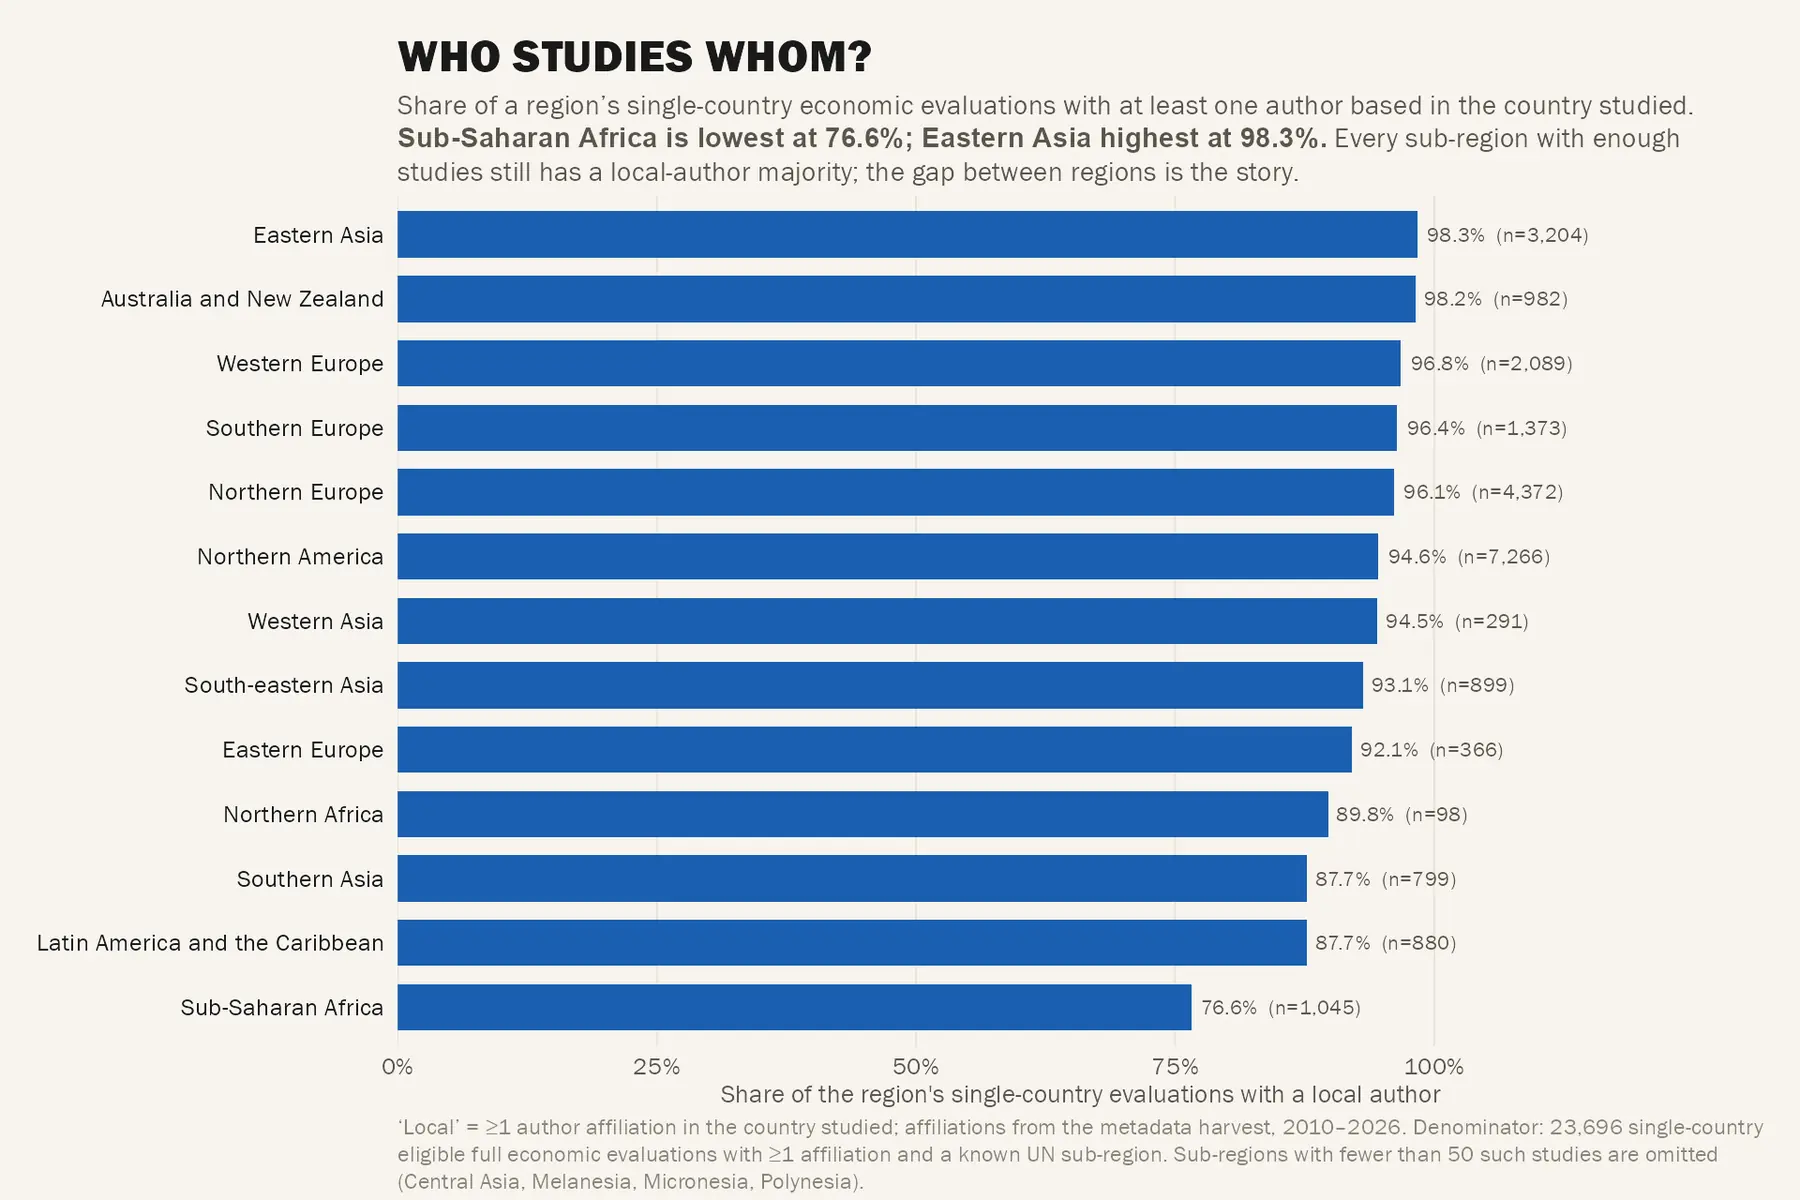
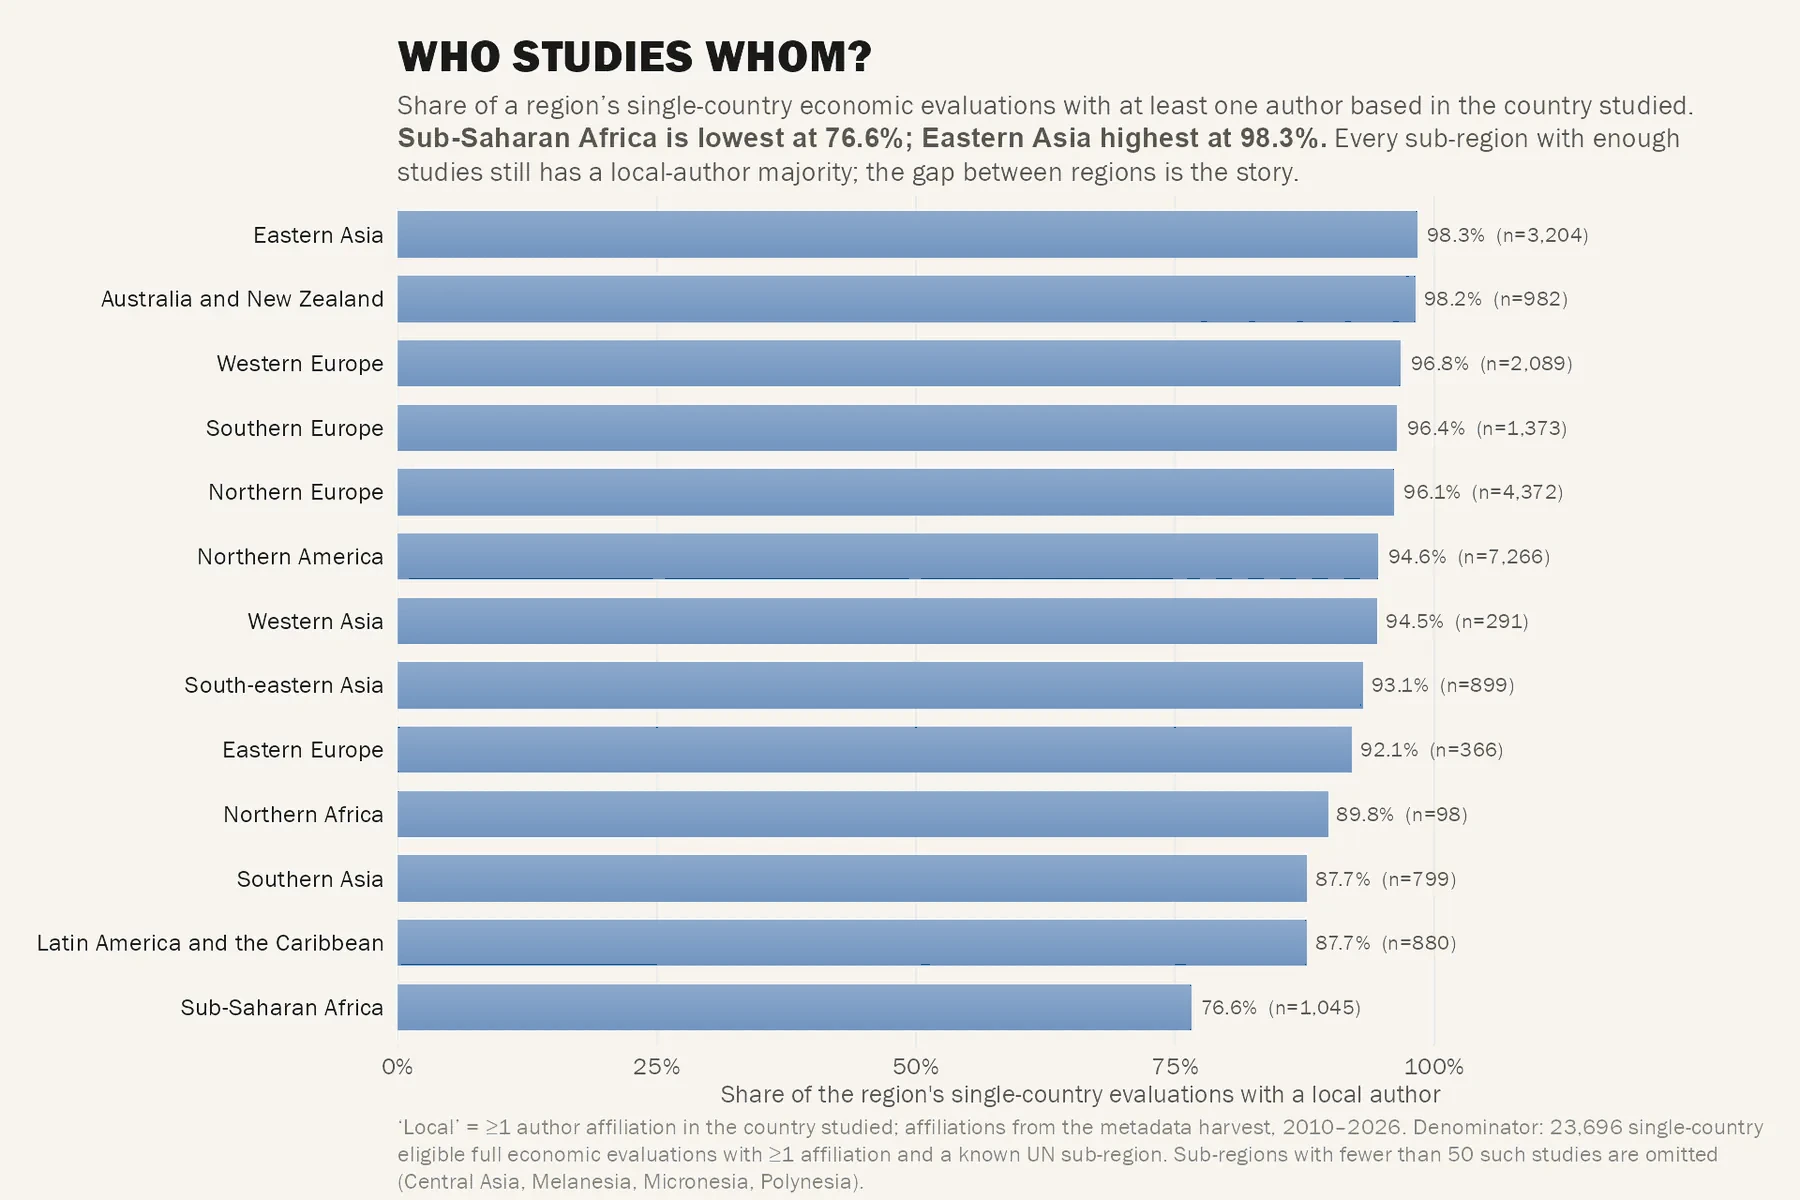
Recolour Authorship & access figures to the soft income palette
Swap the saturated upstream colours in six pre-rendered figures for the
site's soft income palette, with a subtle top-lit gradient on the two bar
charts. The open-access map is left unchanged: it already uses a soft
diverging scale. The source and affiliation data for these figures are not
in this repo, so scripts/recolour_authorship_figures.py recolours the
images pixel by pixel and can be re-run on fresh originals.

Changed region(s): [[0.2178, 0.1542, 0.8089, 0.8633]]

diff --git a/scripts/recolour_authorship_figures.py b/scripts/recolour_authorship_figures.py
@@ -1,0 +1,106 @@
+"""Recolour the pre-rendered Authorship & access figures to the site's soft palette.
+
+Run: python scripts/recolour_authorship_figures.py [figure.webp ...]
+Run it on the original upstream images; a second pass on recoloured output is not intended.
+Requires Pillow, numpy and scipy. These figures were rendered upstream; their
+source code and affiliation data are not in this repo, so this swaps colours
+pixel by pixel instead of re-plotting. Each pixel is matched to the line between
+two known colours (background, white, or a source colour), which keeps
+anti-aliased edges and overlaps consistent. Solid bars also get the subtle
+top-lit gradient used by figure_style.shade_bars. Originals stay in git history.
+fig_map_openaccess.webp is left as is: it already uses a soft diverging palette,
+and its pale blue-grey end is too close to the grey no-data countries to swap safely.
+"""
+from pathlib import Path
+import sys
+
+import numpy as np
+from PIL import Image
+from scipy import ndimage
+
+try:
+    from figure_style import INCOME_COLORS, LAVENDER
+except ModuleNotFoundError:
+    from scripts.figure_style import INCOME_COLORS, LAVENDER
+
+FIGURES = Path(__file__).resolve().parents[1] / "docs" / "figures"
+LIC, LMIC, UMIC, HIC = INCOME_COLORS
+BACKGROUND, WHITE = "#f8f4ee", "#ffffff"
+# Saturated upstream colours and their soft-palette replacements, per figure.
+BLUE, TEAL, AMBER, ORANGE = "#2a78d0", "#1aa878", "#e9a000", "#e6642f"
+INCOME = {BLUE: HIC, TEAL: UMIC, AMBER: LMIC, ORANGE: LIC, "#eb6835": LIC}
+JOBS = {
+    "fig_authorship_pattern.webp": ({BLUE: HIC, ORANGE: LIC, TEAL: UMIC, "#4a36a8": HIC,
+                                     "#008000": LAVENDER, "#e34848": LIC}, True),
+    "fig_forest.webp": ({BLUE: HIC}, False),
+    "paper06.webp": (INCOME, False),
+    "fig_collab_chord.webp": (INCOME, False),
+    "fig_openaccess.webp": ({BLUE: HIC, ORANGE: LIC}, False),
+    # Bars here carry a dark edge line and a light-cyan compression halo; both fold into fill and background.
+    "fig_map_authorship.webp": ({"#1a56aa": HIC, "#2d598a": HIC, "#d2f0ff": BACKGROUND, "#ecf9ff": BACKGROUND}, True),
+}
+TOLERANCE = 22.0
+
+
+def rgb(value):
+    return np.array([int(value[i:i + 2], 16) for i in (1, 3, 5)], dtype=float)
+
+
+def recolour(pixels, mapping, fixed):
+    """Return recoloured pixels and a mask of solid (fully coloured) matches."""
+    ends = [(rgb(c), rgb(c)) for c in [BACKGROUND, WHITE] + fixed] + [(rgb(s), rgb(t)) for s, t in mapping.items()]
+    n_fixed = 2 + len(fixed)
+    best = np.full(len(pixels), TOLERANCE)
+    out = pixels.copy()
+    solid = np.zeros(len(pixels), bool)
+    for i in range(len(ends)):
+        for j in range(max(i + 1, n_fixed), len(ends)):
+            (a_src, a_dst), (b_src, b_dst) = ends[i], ends[j]
+            span = b_src - a_src
+            t = np.clip((pixels - a_src) @ span / (span @ span), 0, 1.05)
+            residual = np.linalg.norm(pixels - (a_src + t[:, None] * span), axis=1)
+            hit = (residual < best) & (t > .06)
+            best[hit] = residual[hit]
+            out[hit] = a_dst + t[hit, None] * (b_dst - a_dst)
+            solid[hit] = (t[hit] > .85) | (i >= n_fixed)
+    # Leave the background, white and near-neutral pixels exactly as they were.
+    keep = np.min([np.linalg.norm(pixels - rgb(c), axis=1) for c in [BACKGROUND, WHITE] + fixed], axis=0) < 12
+    out[keep] = pixels[keep]
+    solid[keep] = False
+    return np.clip(out, 0, 255), solid
+
+
+def add_gradient(image, solid, changed):
+    """Lighten the top of each solid block, matching shade_bars (20% toward white)."""
+    labels, count = ndimage.label(solid)
+    for index, box in enumerate(ndimage.find_objects(labels), 1):
+        rows, cols = box
+        height = rows.stop - rows.start
+        if height < 25 or cols.stop - cols.start < 12:
+            continue
+        # Include the recoloured anti-aliased rim so bar edges lighten with the fill.
+        region = ndimage.binary_dilation(labels[box] == index, iterations=2) & changed[box]
+        lift = .2 * (1 - (np.arange(height) / max(1, height - 1)))[:, None, None]
+        block = image[box]
+        image[box] = np.where(region[..., None], block * (1 - lift) + 255 * lift, block)
+
+
+def main():
+    names = sys.argv[1:] or list(JOBS)
+    for name in names:
+        job = JOBS[name]
+        mapping, gradient, fixed = (job + ([],))[:3]
+        path = FIGURES / name
+        source = np.asarray(Image.open(path).convert("RGB"), dtype=float)
+        shape = source.shape
+        pixels, solid = recolour(source.reshape(-1, 3), mapping, fixed)
+        image = pixels.reshape(shape)
+        if gradient:
+            changed = np.abs(image - source).sum(axis=2) > 0
+            add_gradient(image, solid.reshape(shape[:2]), changed)
+        Image.fromarray(image.round().astype(np.uint8)).save(path, "WEBP", quality=92, method=6)
+        print(f"Recoloured {name}")
+
+
+if __name__ == "__main__":
+    main()
